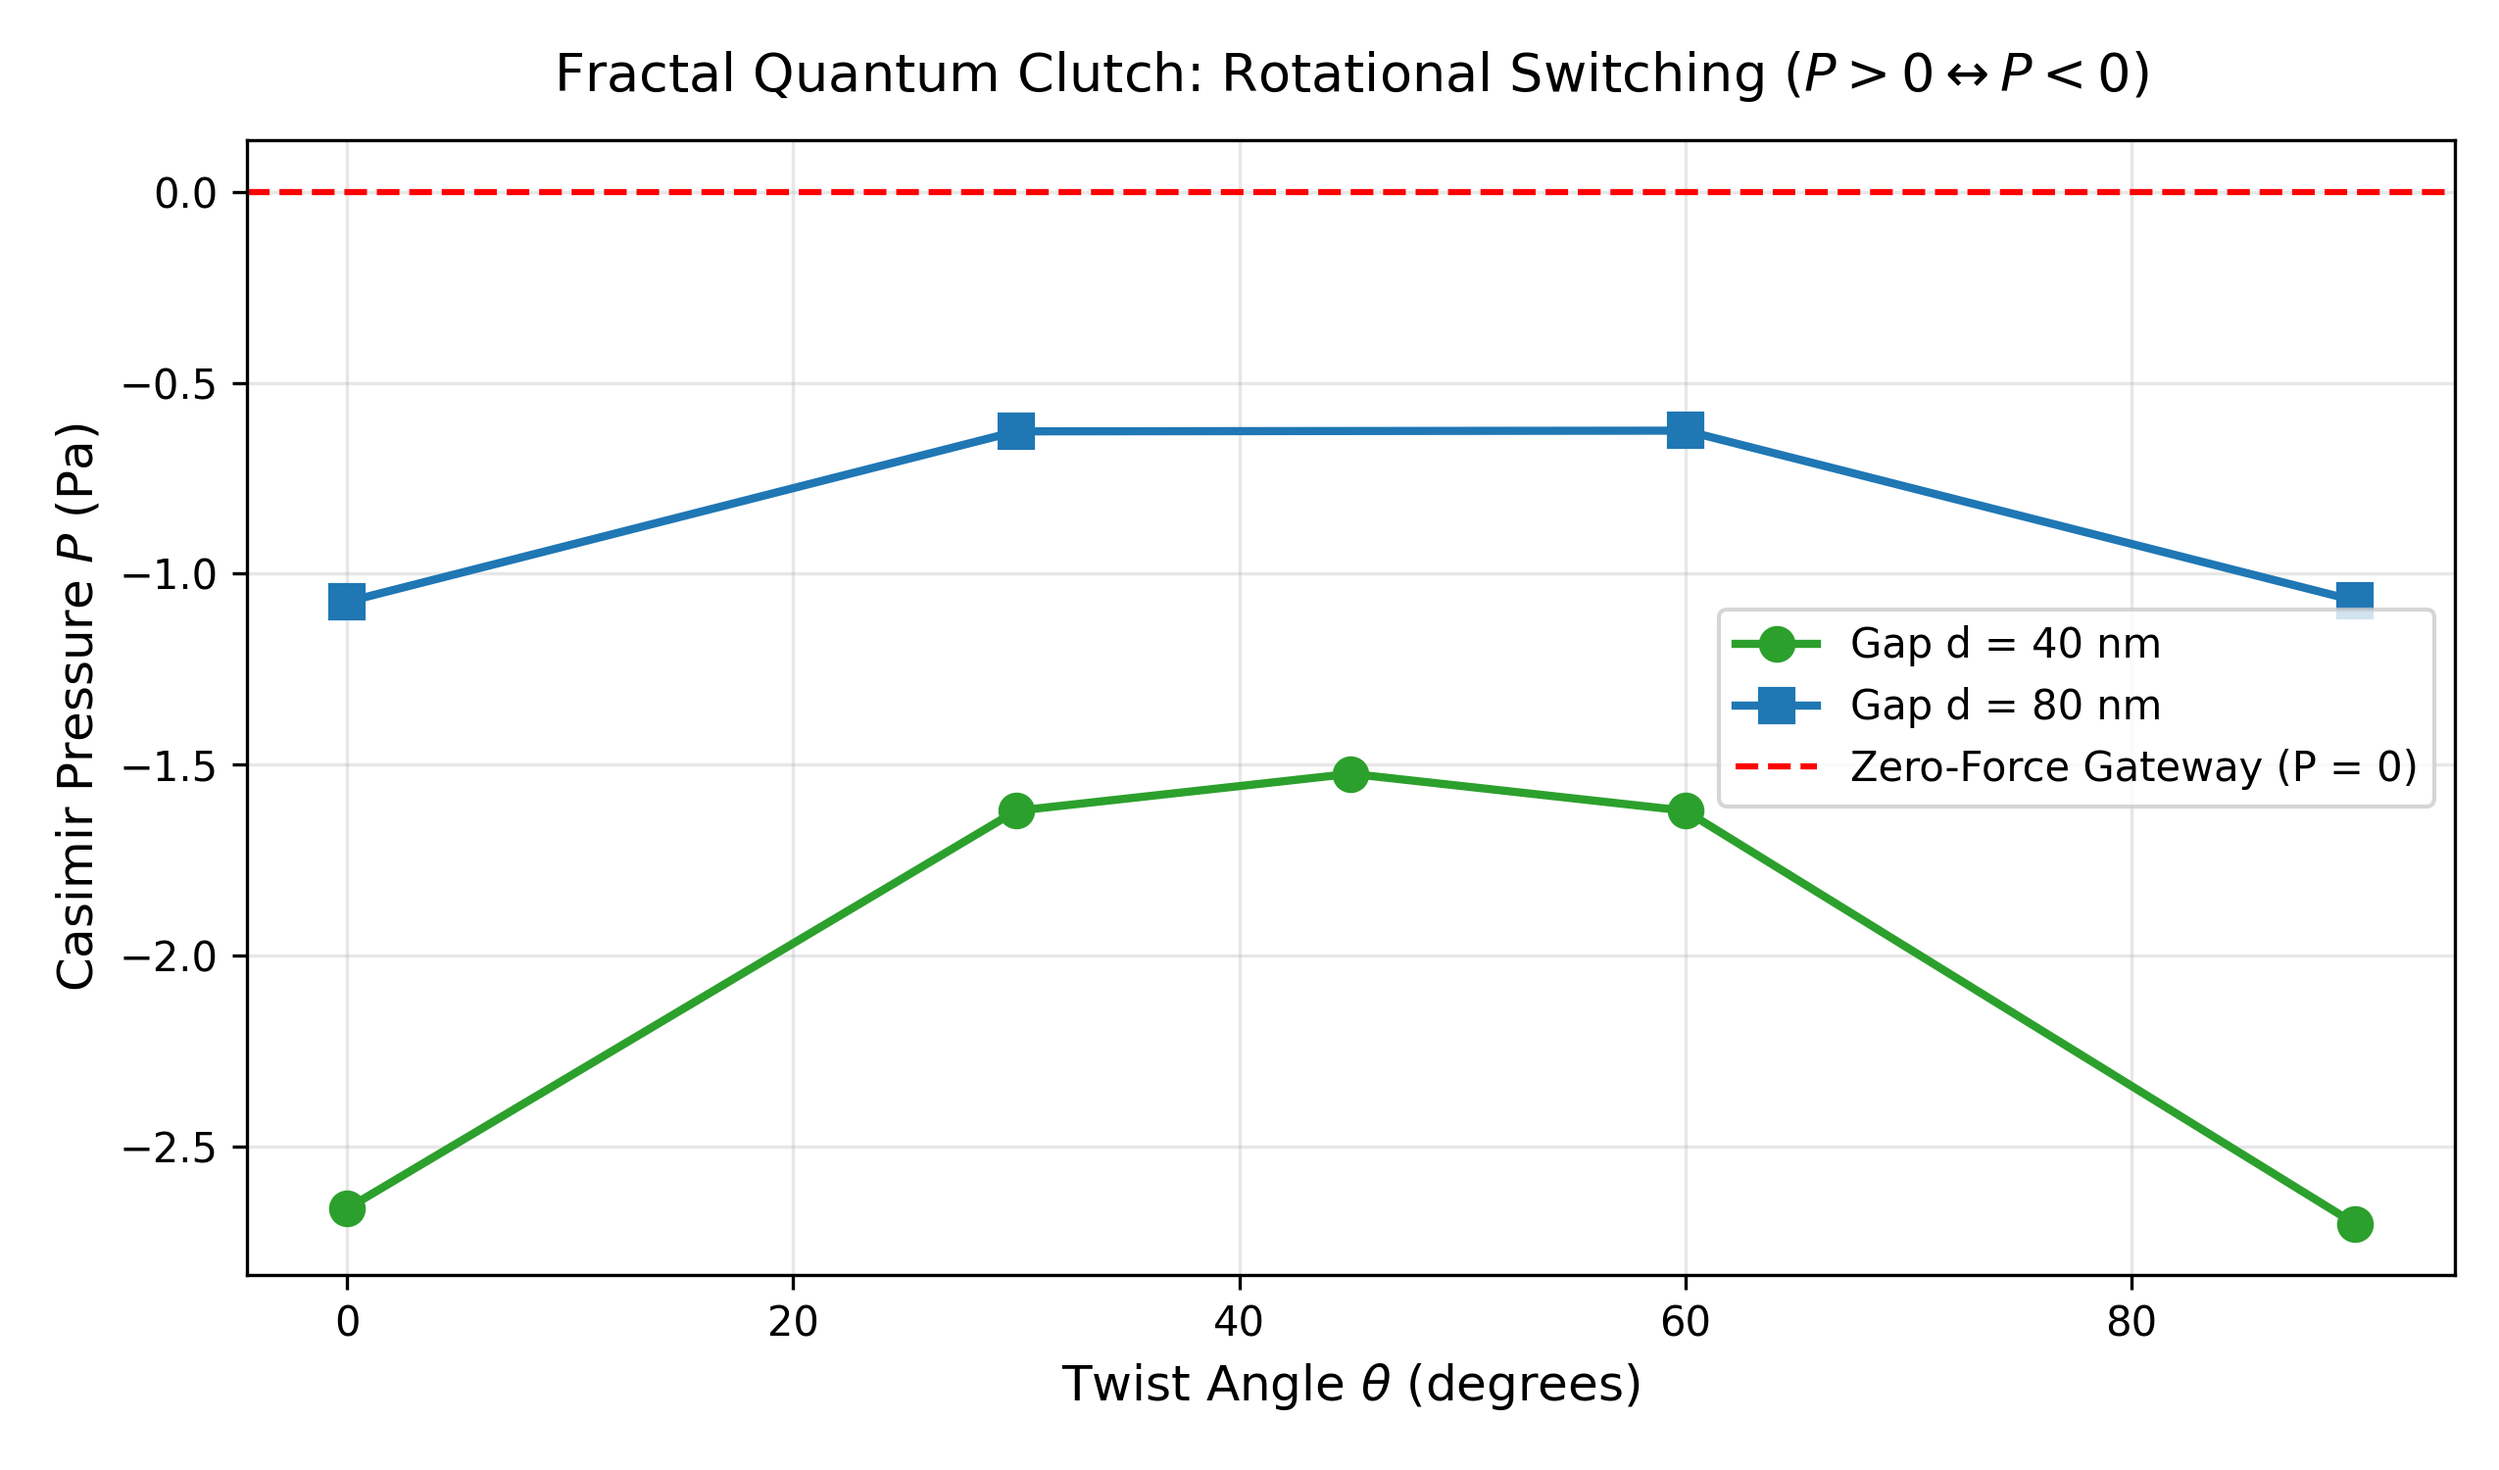
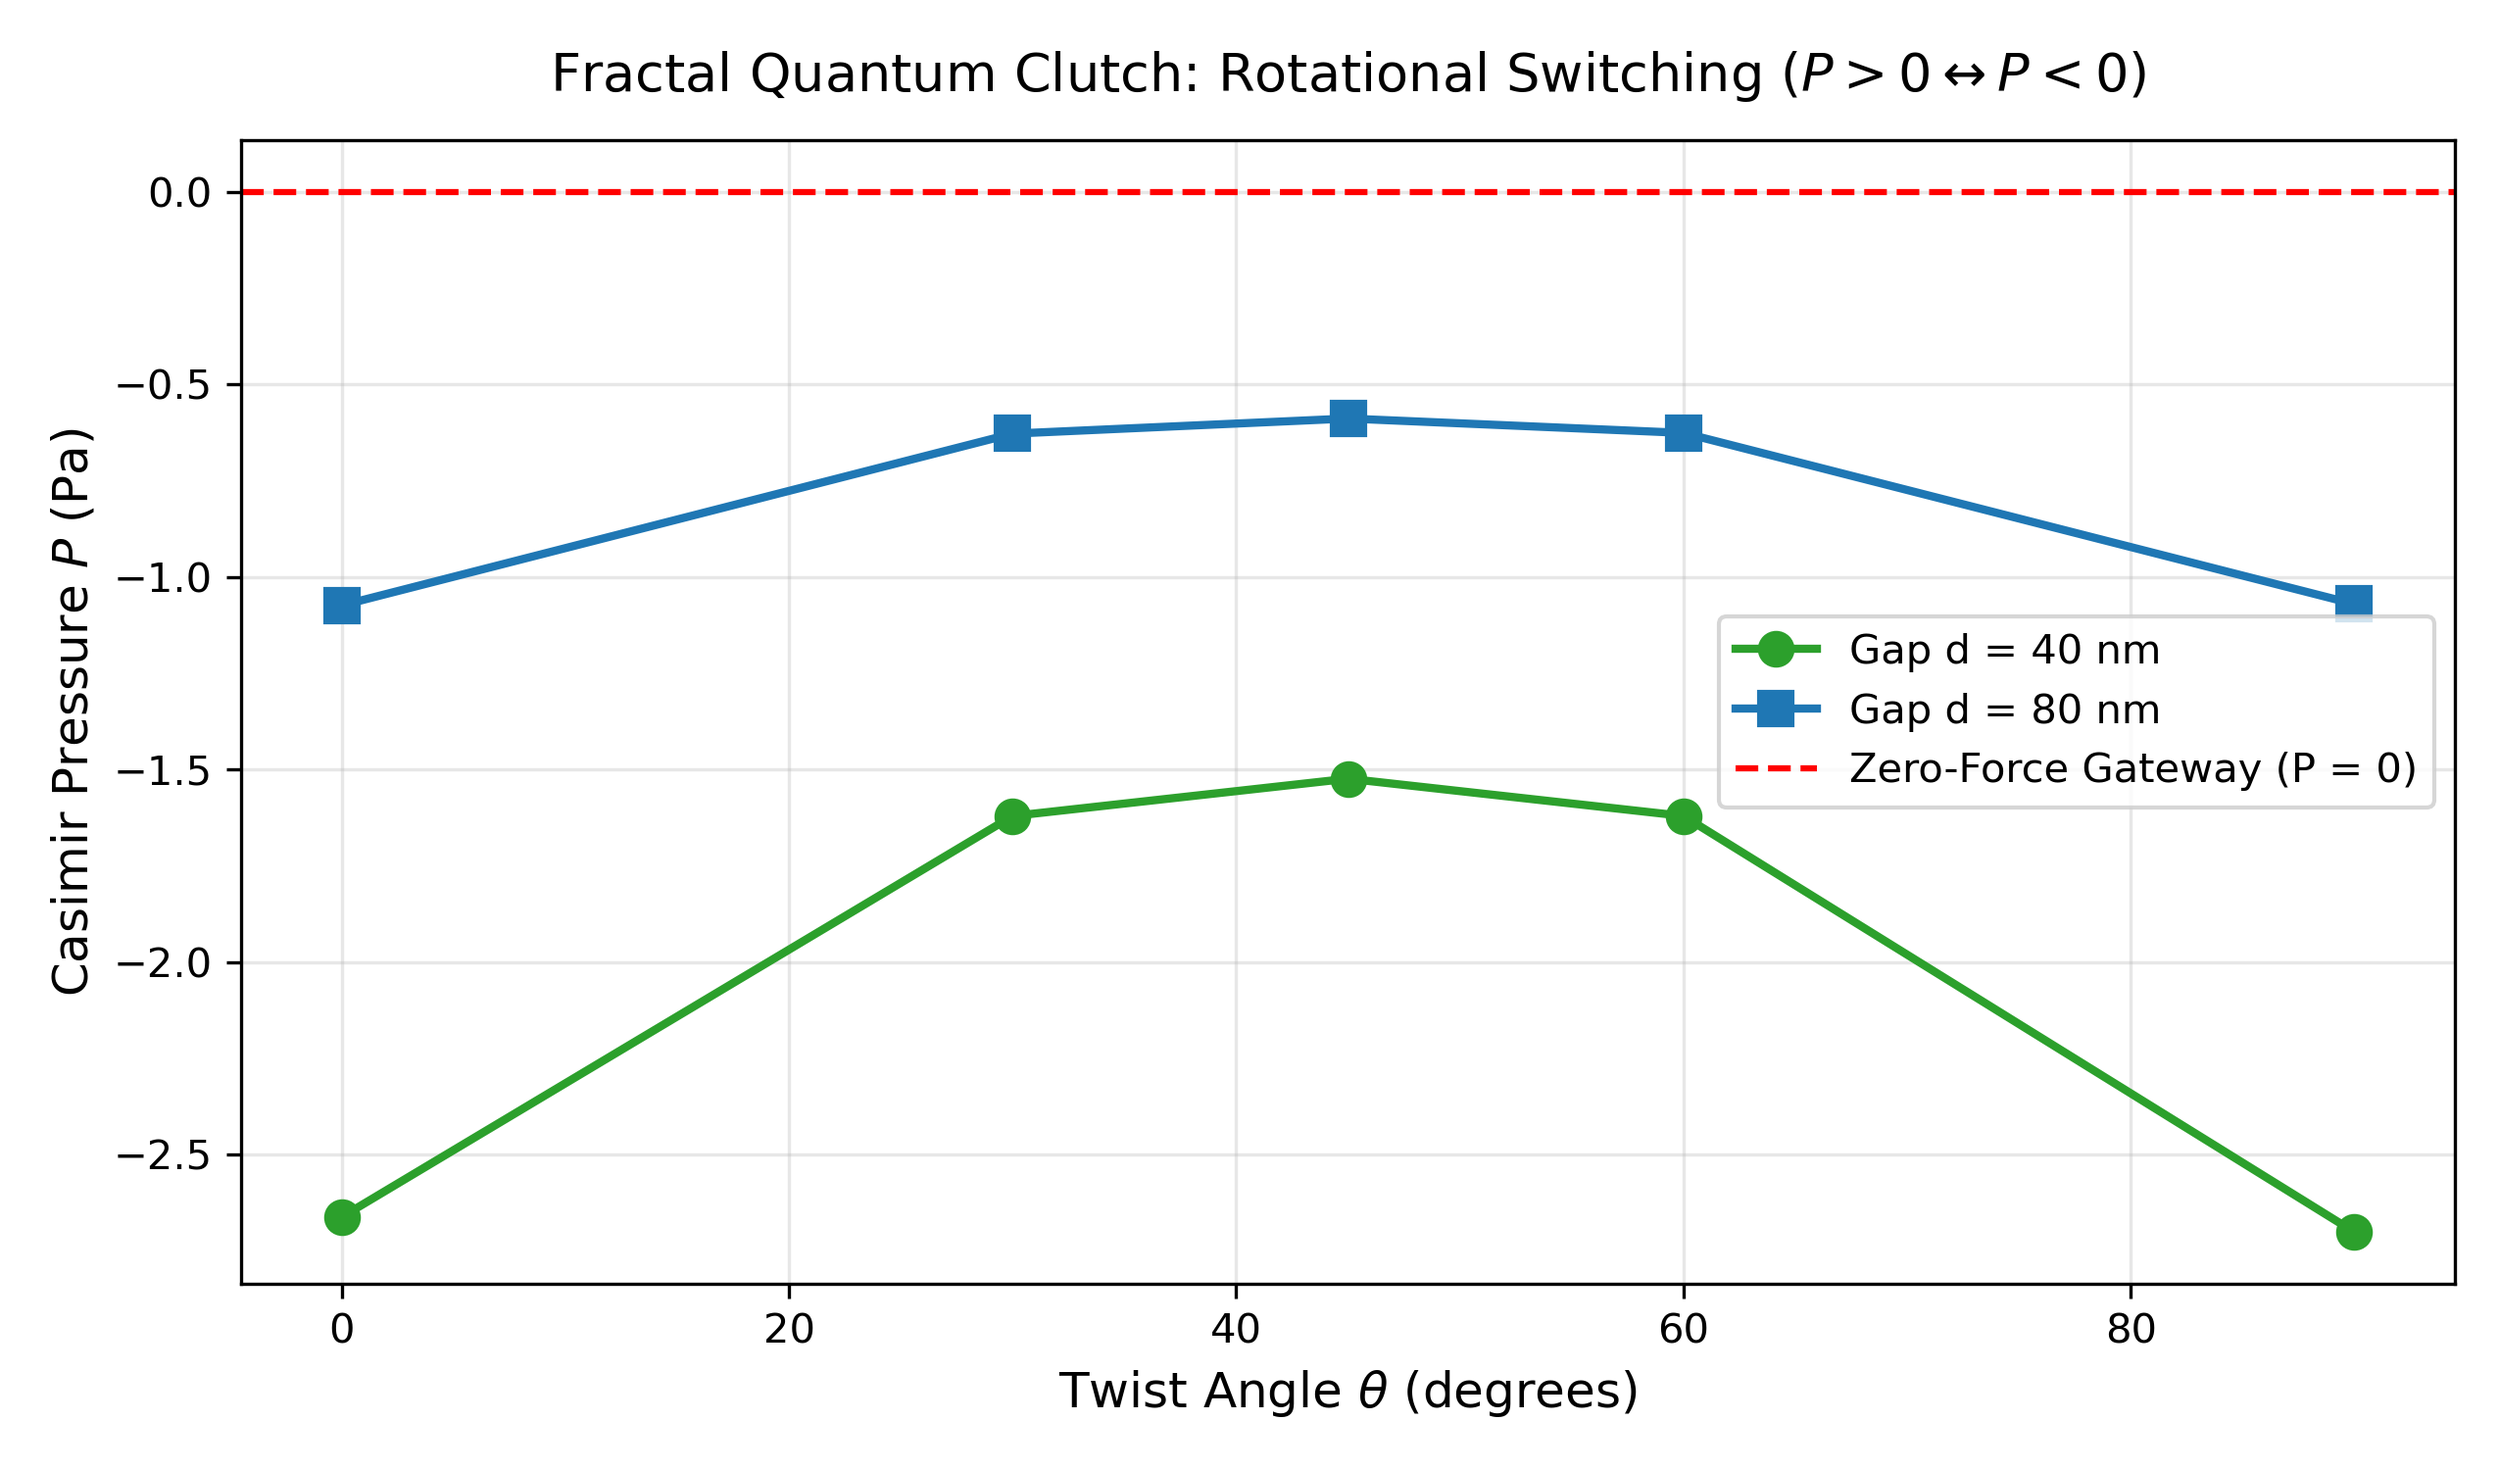
results(quantum_clutch): update summary, tables, and figures [10/10 completed]

diff --git a/Papers/Fractal_Casimir_Nature_EM/tables/table_quantum_clutch.tex b/Papers/Fractal_Casimir_Nature_EM/tables/table_quantum_clutch.tex
@@ -14,7 +14,7 @@
  5 & $40\text{ nm}$ & $90.0^\circ$ & $-2.701521$ Pa & Engaged & Attractive ($P<0$) \\
  6 & $80\text{ nm}$ & $0.0^\circ$ & $-1.073590$ Pa & Engaged & Attractive ($P<0$) \\
  7 & $80\text{ nm}$ & $30.0^\circ$ & $-0.627443$ Pa & Engaged & Attractive ($P<0$) \\
- 8 & $80\text{ nm}$ & $45.0^\circ$ & Pending & --- & Pending \\
+ 8 & $80\text{ nm}$ & $45.0^\circ$ & $-0.588167$ Pa & Engaged & Attractive ($P<0$) \\
  9 & $80\text{ nm}$ & $60.0^\circ$ & $-0.625548$ Pa & Engaged & Attractive ($P<0$) \\
 10 & $80\text{ nm}$ & $90.0^\circ$ & $-1.070245$ Pa & Engaged & Attractive ($P<0$) \\
 \bottomrule
